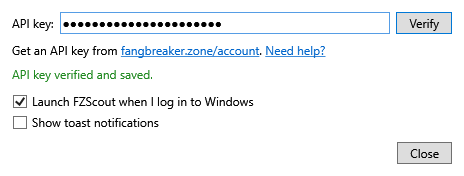
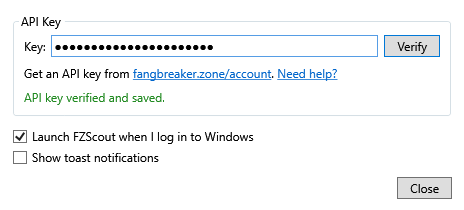
Group the API key controls in the settings dialog

diff --git a/FZScout/SettingsWindow.xaml b/FZScout/SettingsWindow.xaml
@@ -5,8 +5,10 @@
         xmlns:local="clr-namespace:FZScout"
         Title="FZScout Settings">
     <StackPanel Margin="12" Width="440">
+        <GroupBox Header="API Key" Padding="6">
+        <StackPanel>
         <DockPanel>
-            <Label DockPanel.Dock="Left" Content="_API key:" Target="{Binding ElementName=ApiKeyBox}" Padding="0,0,6,0" VerticalAlignment="Center" />
+            <Label DockPanel.Dock="Left" Content="_Key:" Target="{Binding ElementName=ApiKeyBox}" Padding="0,0,6,0" VerticalAlignment="Center" />
             <Button DockPanel.Dock="Right" Content="_Verify" IsDefault="True" Command="{Binding VerifyApiKeyCommand}" Padding="12,2" Margin="6,0,0,0" />
             <Grid>
                 <PasswordBox x:Name="ApiKeyBox" PasswordChanged="CopyApiKeyToViewModel" VerticalContentAlignment="Center">
@@ -71,6 +73,8 @@
                 </Style>
             </TextBlock.Style>
         </TextBlock>
+        </StackPanel>
+        </GroupBox>
 
         <CheckBox Margin="0,12,0,0" Content="_Launch FZScout when I log in to Windows" IsChecked="{Binding LaunchesAtLogin}" />
         <CheckBox Margin="0,6,0,0" Content="Show _toast notifications" IsChecked="{Binding ShowsToastNotifications}" />
